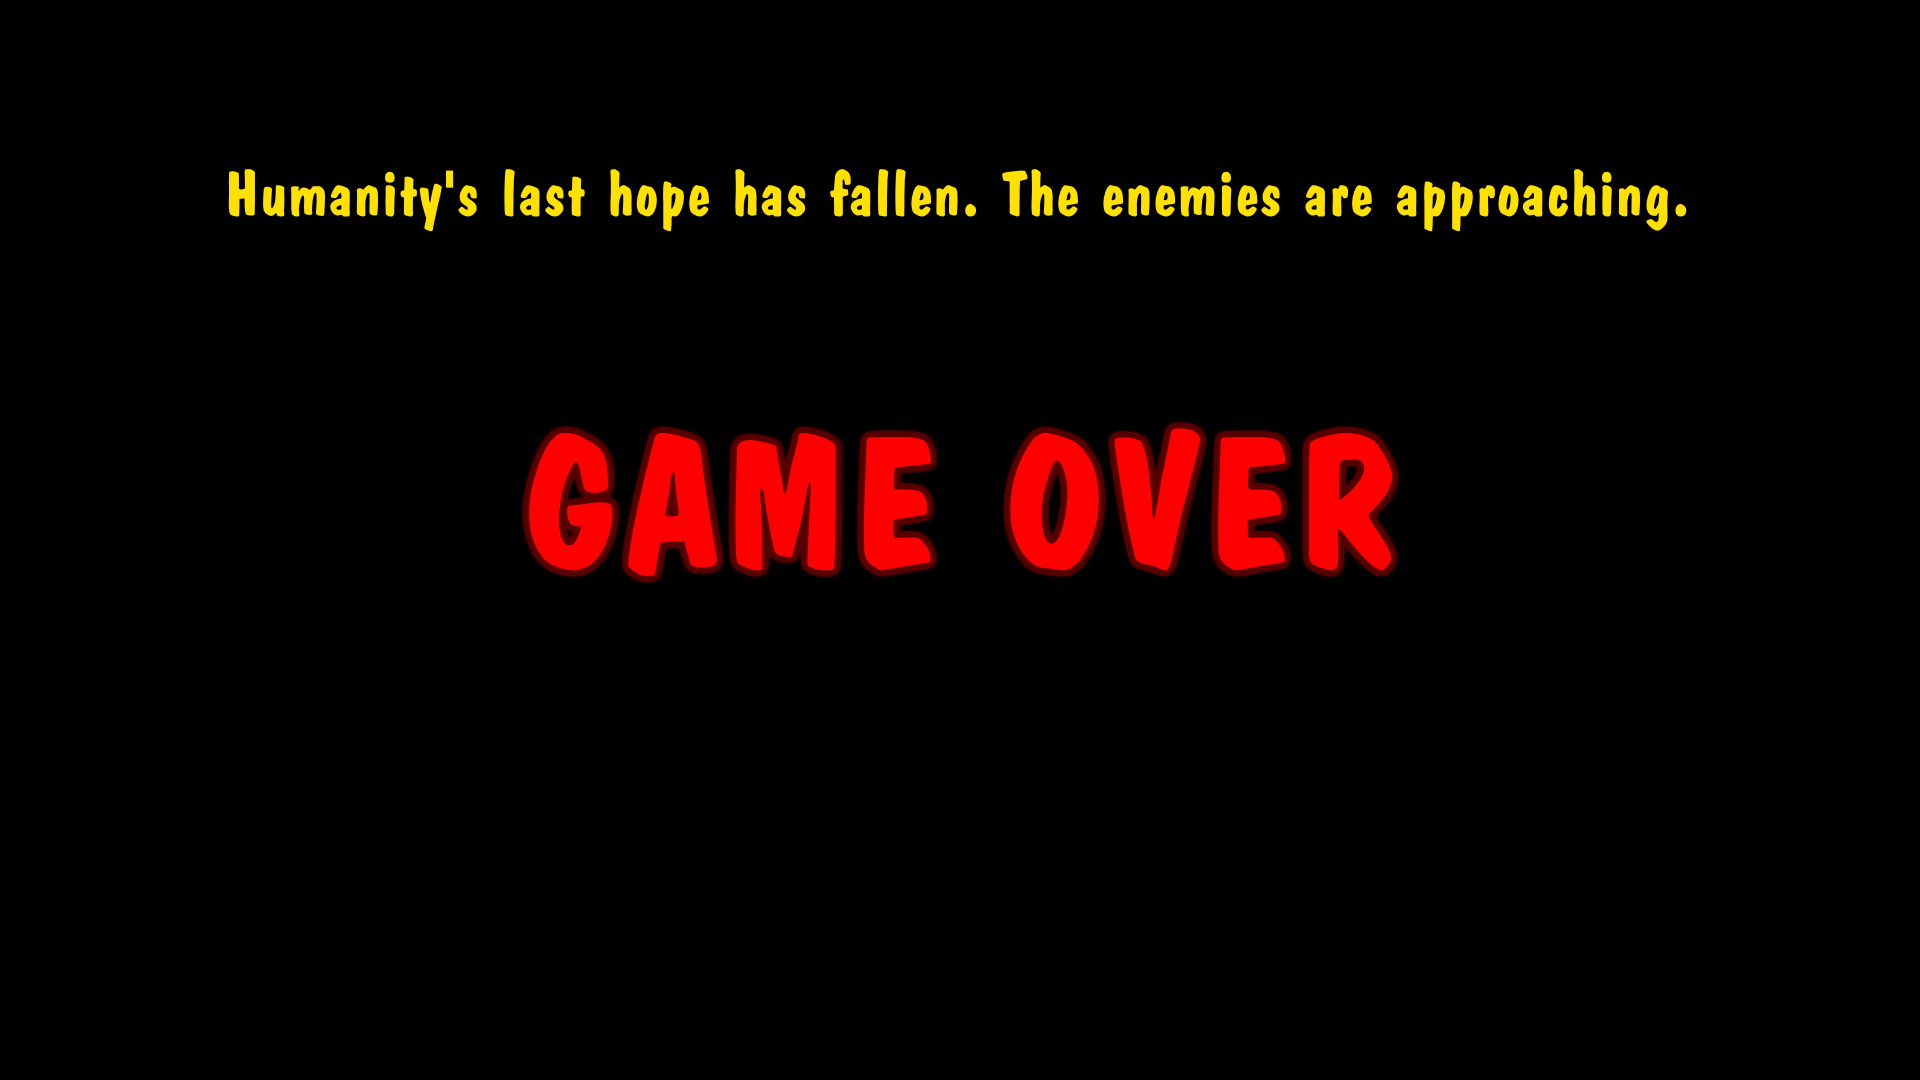
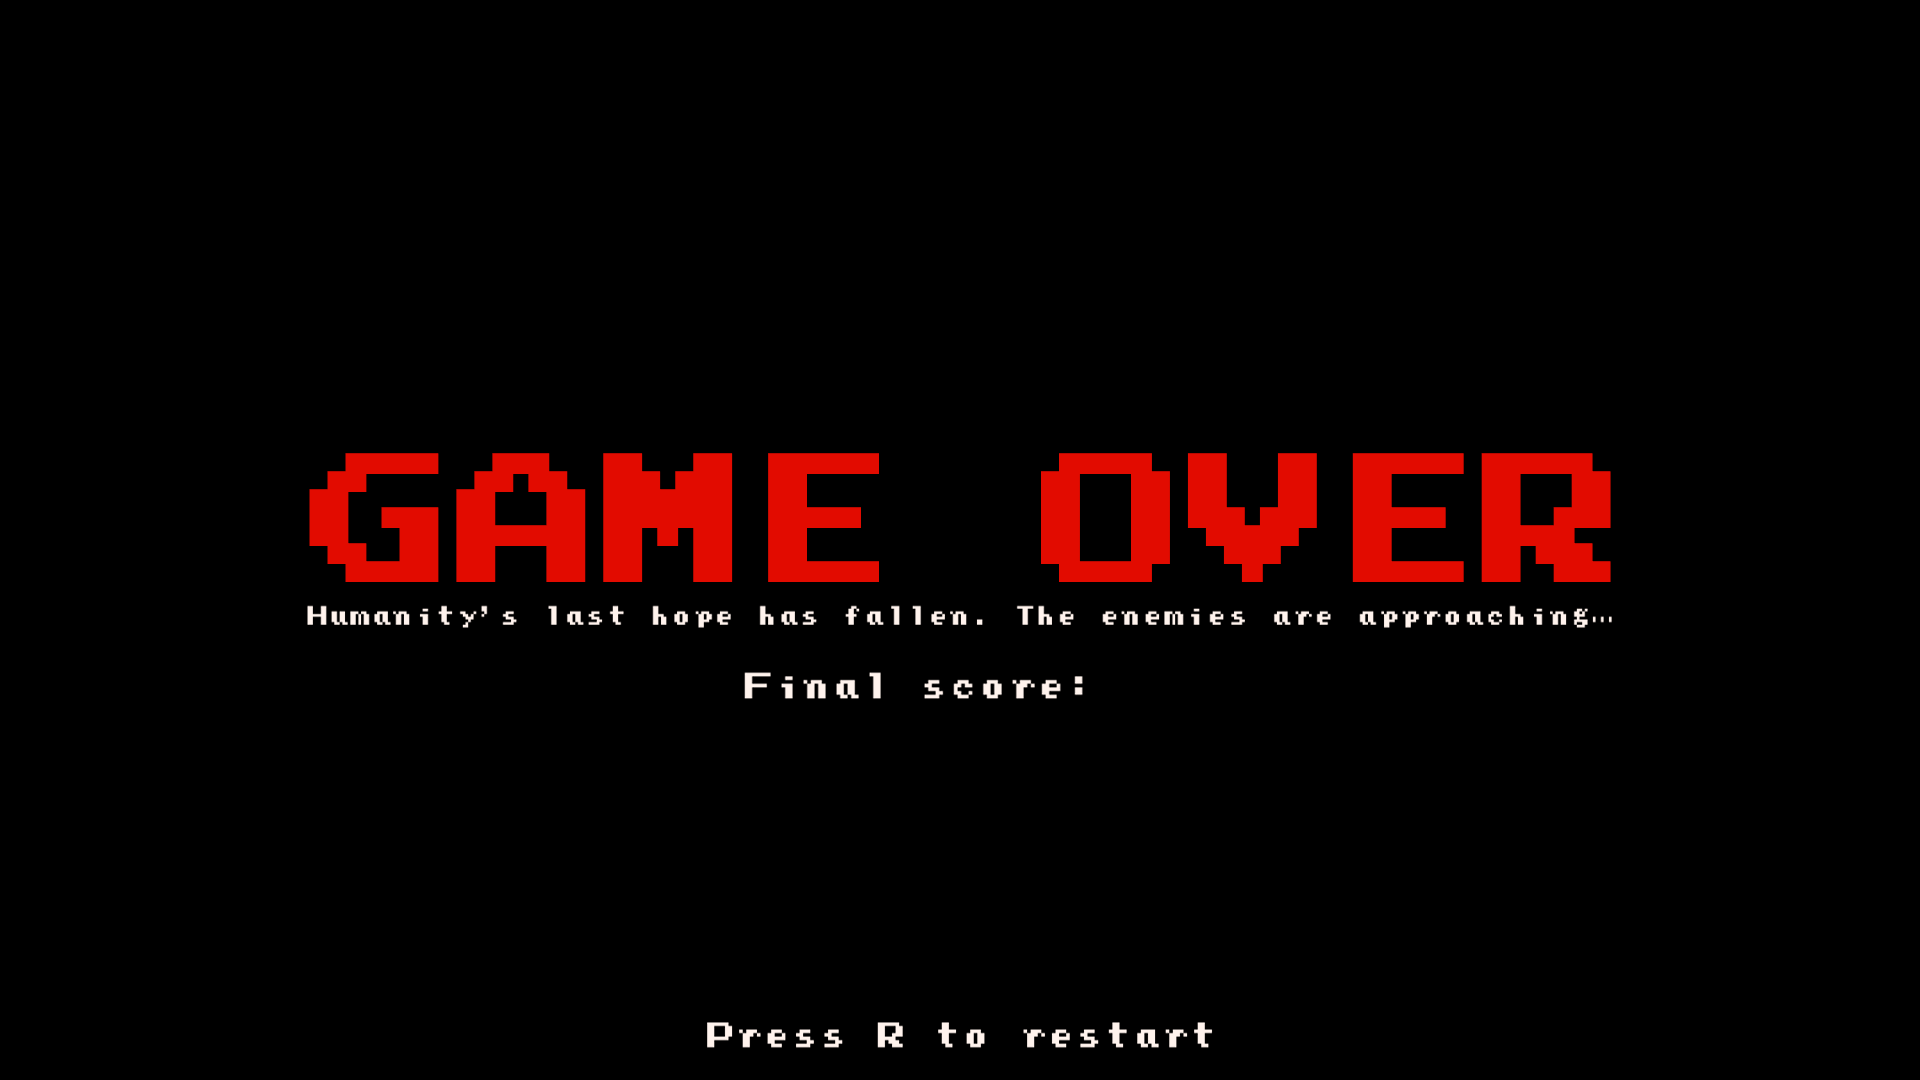
First completed version
Fixed garbage collection so bullets despawn offscreen
Finalised sfx for player death and stars
Redesigned menu screens and fixed final score font somewhat
Edited star spawning rules to avoid uncollectable stars at the top
Bullet spawning needs edits

diff --git a/src/scenes/Game.js b/src/scenes/Game.js
@@ -12,9 +12,9 @@ export class Game extends Phaser.Scene {
         this.stars = this.physics.add.group();
         this.boundaries = this.physics.add.group();
 
-        var boundary1 = this.boundaries.create(-4, 540, 'boundaryVertical');
-        var boundary2 = this.boundaries.create(1924, 540, 'boundaryVertical');
-        var boundary3 = this.boundaries.create(960, 1084, 'boundaryHorizontal');
+        var boundary1 = this.boundaries.create(-100, 600, 'boundaryVertical');
+        var boundary2 = this.boundaries.create(2000, 600, 'boundaryVertical');
+        var boundary3 = this.boundaries.create(960, 1200, 'boundaryHorizontal');
 
         // Player creation and collision
         this.player = this.physics.add.sprite(960, 900, 'player');
@@ -29,8 +29,8 @@ export class Game extends Phaser.Scene {
         this.keyShift = this.input.keyboard.addKey(Phaser.Input.Keyboard.KeyCodes.SHIFT);
 
         // Display score
-        this.score = 0;
-        this.scoreText = this.add.text(10, 10, 'Score: 0', { fontSize: '48px', fill: '#255' });
+        this.score = 1000;
+        this.scoreText = this.add.text(835, 10, 'Score: 0', { fontSize: '48px', fill: '#ffffff' });
 
         // Start music
         this.music = new Audio('assets/mscGame.ogg');
@@ -57,8 +57,8 @@ export class Game extends Phaser.Scene {
         var valid = true
 
         // Call faster based on score
-        setTimeout(this.spawnBullet, 100-this.score/20, this)
-        setTimeout(this.spawnStar, 3000+this.score, this)
+        this.bulletTimer = setTimeout(this.spawnBullet, 75, this);
+        this.starTimer = setTimeout(this.spawnStar, 3000+this.score, this);
     }
 
 
@@ -141,31 +141,34 @@ export class Game extends Phaser.Scene {
         var bullet = context.bullets.create(x, 0, bulletSize);
         bullet.setVelocityX(dirX);
         bullet.setVelocityY(dirY);
-
-        if (!context.gameOver) {
-            setTimeout(context.spawnBullet, 100-context.score/20, context)
-        }
+        console.log(75*(1-(Math.log10(2)/1000))^context.score);
+        context.bulletTimer = setTimeout(context.spawnBullet, 75*(1-(Math.log10(2)/1000))^context.score, context);
     }
 
 
     spawnStar(context) {
         // Spawn randomly anywhere on the screen; not too close to the bullet spawn point or edge borders
         var x = Phaser.Math.Between(200,1870);
-        var y = Phaser.Math.Between(50,1030);
+        var y = Phaser.Math.Between(200,1030);
         var star = context.stars.create(x, y, 'star');
 
         if (!context.gameOver) {
-            setTimeout(context.spawnStar, 3000+context.score, context)
+            context.starTimer = setTimeout(context.spawnStar, 3000+context.score, context)
         }
     }
 
 
     hitBullet(player, bullet) {
         // 5 seconds after dying (bullet disappearance time) display end screen, show final score
-        player.destroy();
+        player.disableBody(true, true);
         this.gameOver = true;
         clearInterval(this.scoreTimer);
-        setTimeout(this.displayEnd, 5000, this);
+        clearTimeout(this.starTimer);
+        clearTimeout(this.bulletTimer);
+        this.music.pause();
+        this.sfx = new Audio('assets/sfxPlayerDeath.ogg');
+        this.sfx.play();
+        setTimeout(this.displayEnd, 2000, this);
     }
 
 
@@ -187,7 +190,6 @@ export class Game extends Phaser.Scene {
 
     displayEnd(context) {
         context.gameBg.destroy();
-        context.music.pause();
         context.scene.start('GameOver', {score: context.score});
     }
 
@@ -197,8 +199,8 @@ export class Game extends Phaser.Scene {
         context.scoreText.setText('Score: ' + Math.round(context.score));
         var boundary = 0
         var newDifficulty = 0
-        var temp = context.difficulty;
-        switch(temp) {
+        var maxDifficulty = false;
+        switch(context.difficulty) {
             case 0:
                 boundary = 200;
                 newDifficulty = 1;
@@ -228,8 +230,12 @@ export class Game extends Phaser.Scene {
                 boundary = 1500;
                 newDifficulty = 6;
                 break;
+                
+            case 6:
+                maxDifficulty = true;
+                break;
         }
-        if(context.score >= boundary) {
+        if(context.score >= boundary && !maxDifficulty) {
             context.difficulty = newDifficulty;
             context.sfx = new Audio('assets/sfxDifficultyIncrease.ogg');
             context.sfx.play();
@@ -238,11 +244,6 @@ export class Game extends Phaser.Scene {
 
 
     update() {
-        // If game over, don't allow player movement
-        if (this.gameOver) {
-            return;
-        }
-
         // Player movement
         if (this.keyShift.isDown) {
             this.player.setVelocityX(-200*((this.cursors.left.isDown | this.keyA.isDown) - (this.cursors.right.isDown | this.keyD.isDown)));

diff --git a/src/scenes/GameOver.js b/src/scenes/GameOver.js
@@ -10,16 +10,17 @@ export class GameOver extends Phaser.Scene {
 
     create() {
         this.bg = this.physics.add.sprite(960, 540, 'screenEnd');
-        this.scoreText = this.add.text(650, 750, 'Final score: ' + Math.round(this.score), { fontSize: '64px', fill: '#150' });
+        this.scoreText = this.add.text(1100, 671, Math.round(this.score), { fontSize: '36px', fill: '#ffffff', fontStyle: 'Bold' });
 
-        this.keySpace = this.input.keyboard.addKey(Phaser.Input.Keyboard.KeyCodes.SPACE);
+        this.keyR = this.input.keyboard.addKey(Phaser.Input.Keyboard.KeyCodes.R);
         this.music = new Audio('assets/mscGameOver.ogg');
+        this.music.loop = true;
         this.music.play();
     }
 
 
     update() {
-        if (this.keySpace.isDown) {
+        if (this.keyR.isDown) {
             //this.bg.destroy();
             this.music.pause();
             this.scene.start('MainMenu');

diff --git a/src/scenes/MainMenu.js b/src/scenes/MainMenu.js
@@ -13,12 +13,12 @@ export class MainMenu extends Phaser.Scene {
             this.music.loop = true;
             this.music.play();
 
-            this.keySpace = this.input.keyboard.addKey(Phaser.Input.Keyboard.KeyCodes.SPACE);
+            this.keyEnter = this.input.keyboard.addKey(Phaser.Input.Keyboard.KeyCodes.ENTER);
     }
 
 
     update() {
-        if (this.keySpace.isDown) {
+        if (this.keyEnter.isDown) {
             //this.bg.destroy();
             this.music.pause();
             this.scene.start('Game');

diff --git a/src/scenes/Preloader.js b/src/scenes/Preloader.js
@@ -43,6 +43,7 @@ export class Preloader extends Phaser.Scene {
         this.load.audio('mscGameOver', 'mscGameOver.ogg');
         this.load.audio('sfxStar', 'sfxStar.ogg');
         this.load.audio('sfxDifficultyIncrease', 'sfxDifficultyIncrease.ogg');
+        this.load.audio('sfxPlayerDeath', 'sfxPlayerDeath.ogg');
     }
 
     create() {
